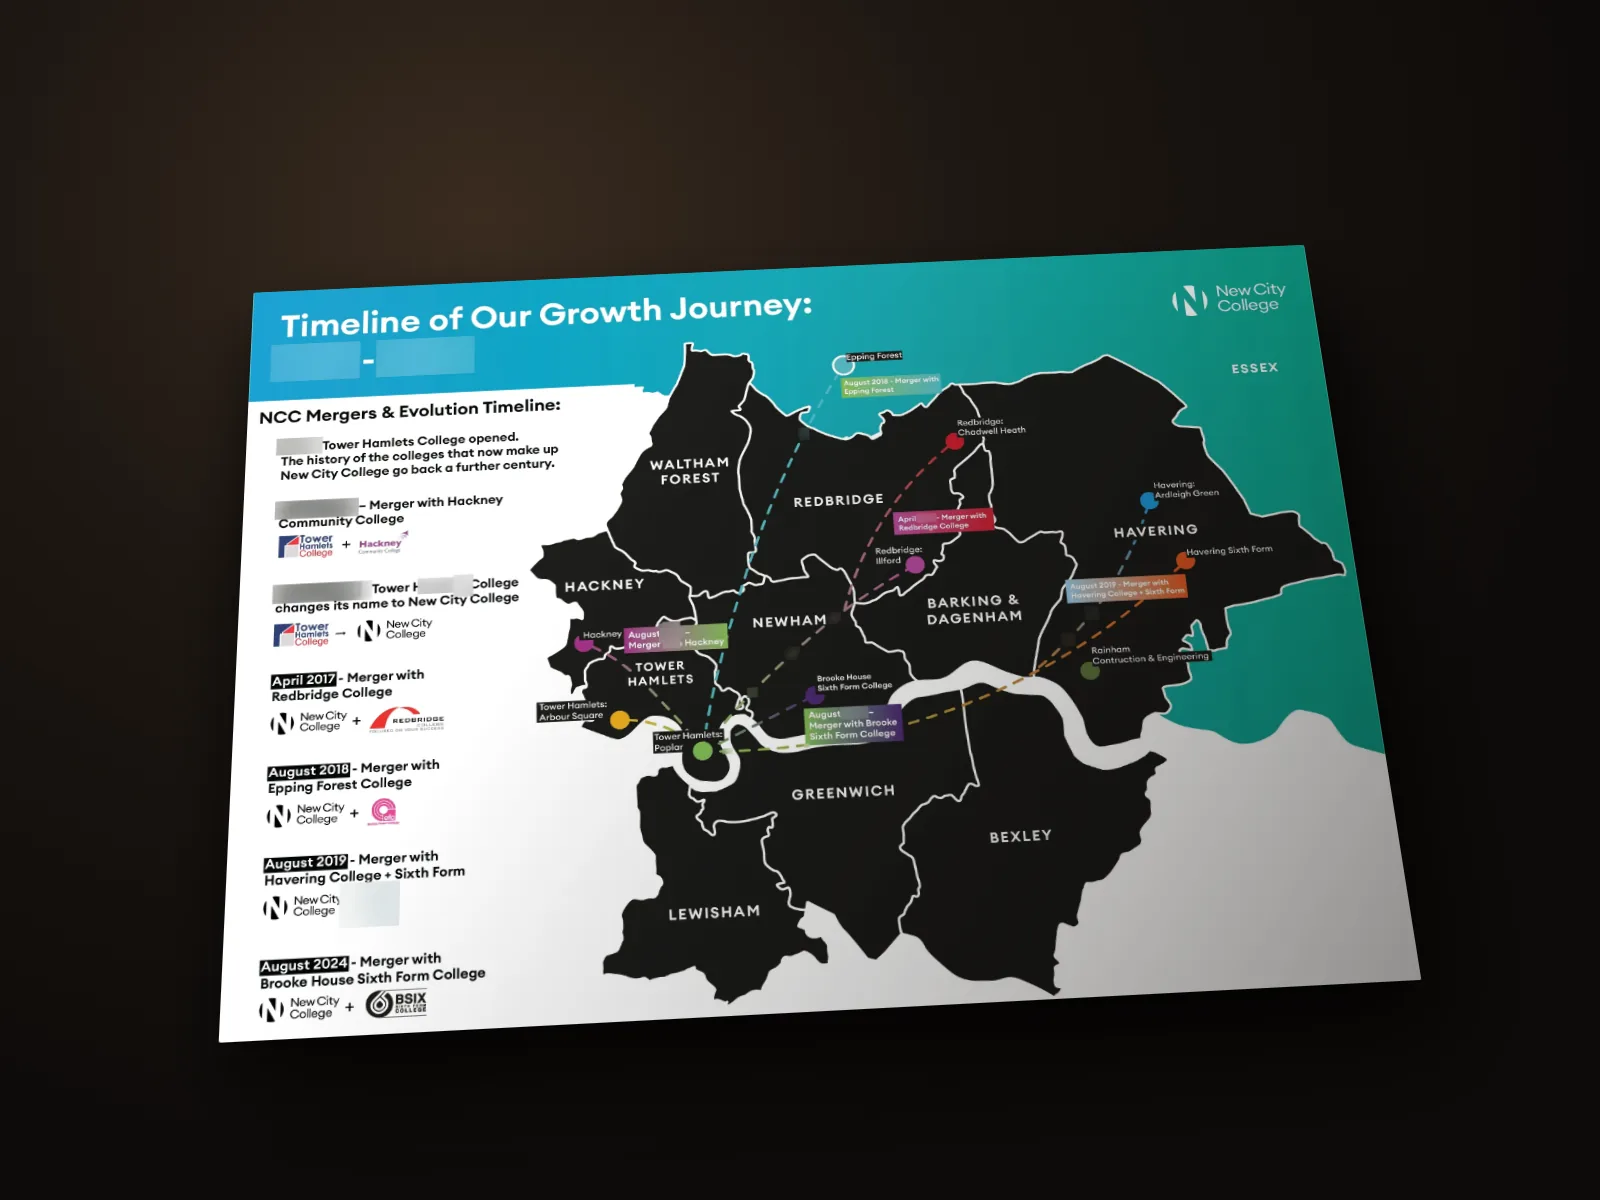
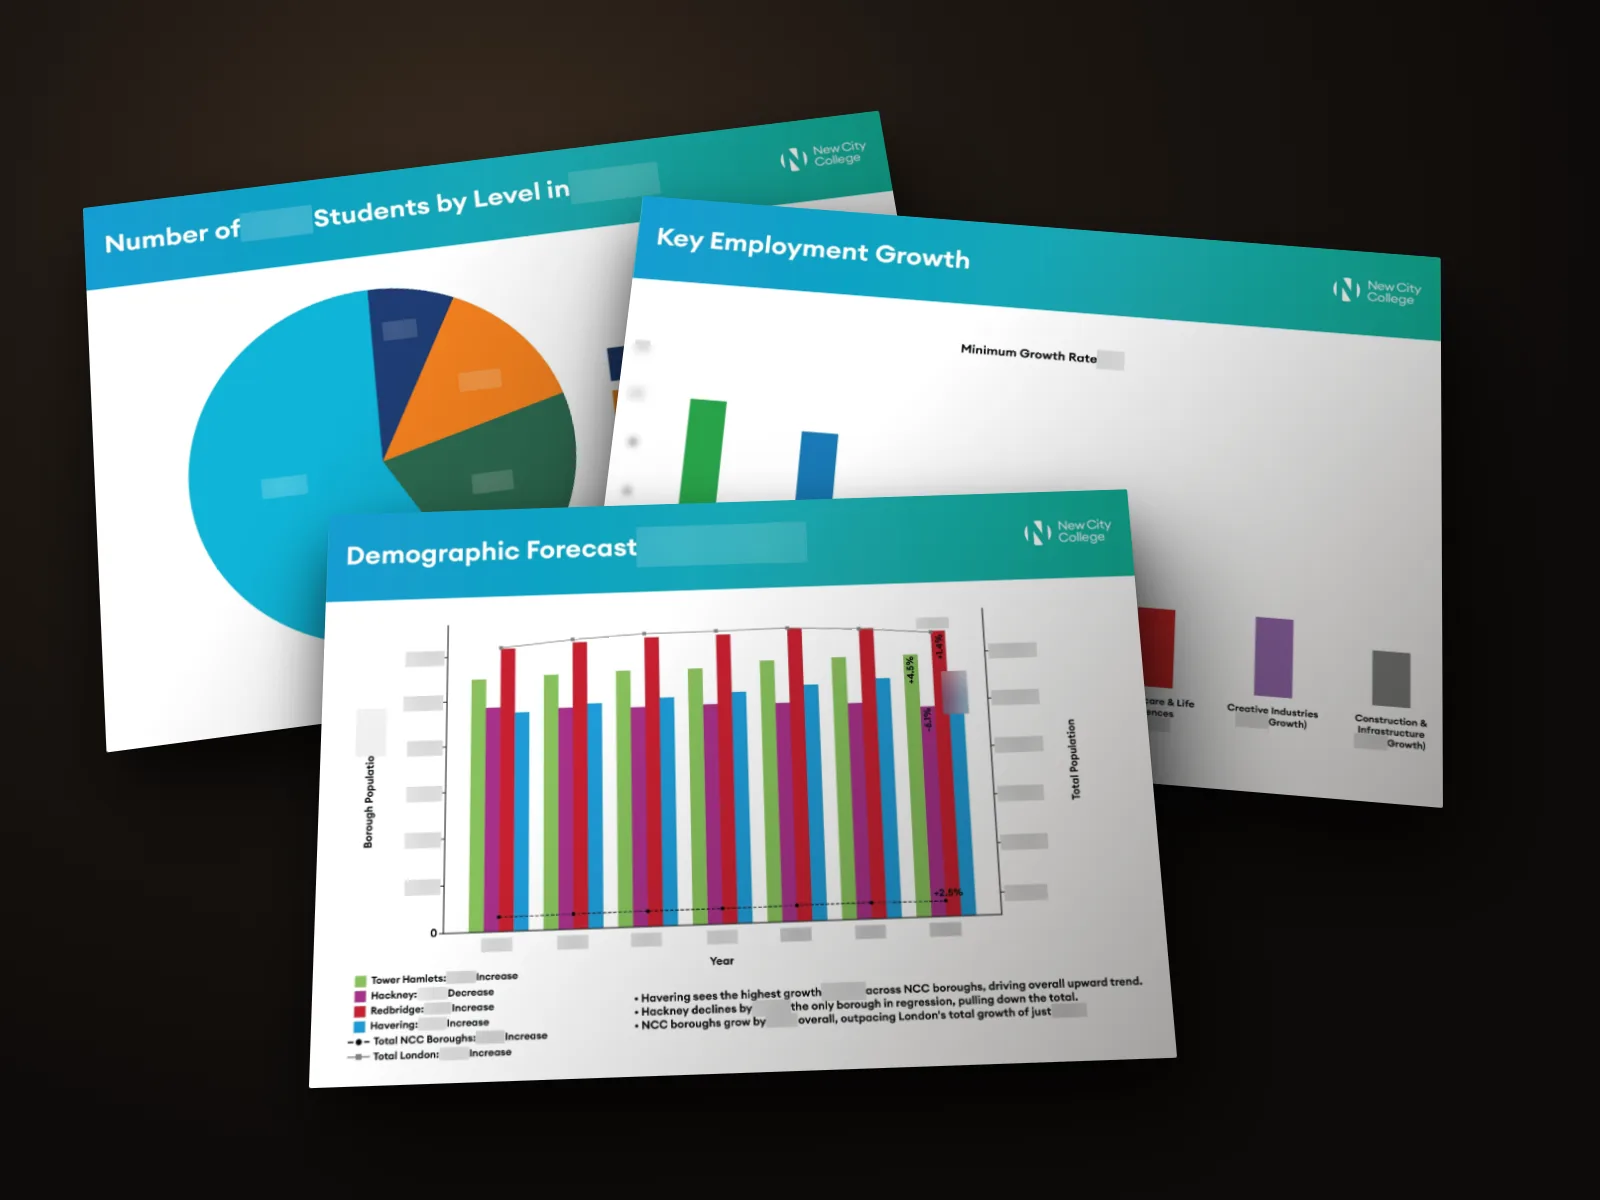
Selected work shows the design work: Pandora still, charts set, no portrait
- Pandora Forever: the street photo is gone; cover and card use a CGI still
  from the video
- KUT Magazine removed (its only image was a portrait)
- Selected work now leads with OSE, CMD, the NCC report, DoubleShot,
  Pandora and the Freeport skills visuals; the map projects stay on /work/
- Strategic Intent card shows its chart set instead of the map

diff --git a/src/scripts/work-filter.ts b/src/scripts/work-filter.ts
@@ -36,7 +36,7 @@ type Cell = [number, number, number, number];
 const BENTO: Record<number, Cell[]> = {
   // Strategic Intent, Oxford, ACL, Fou Answer, NYGG, BSix, Pandora Forever
   7: [[1, 7, 1, 4], [8, 5, 1, 6], [1, 4, 5, 4], [1, 3, 9, 3], [4, 4, 9, 3], [5, 3, 5, 4], [8, 5, 7, 5]],
-  // the archive: KUT, the final major project, then three square renders
+  // the archive: the final major project, then three square renders
   5: [[1, 7, 1, 5], [8, 5, 1, 5], [1, 4, 6, 4], [5, 4, 6, 4], [9, 4, 6, 4]],
   // data and motion: one large, one wide below it, one tall beside both
   3: [[1, 8, 1, 5], [1, 8, 6, 4], [9, 4, 1, 9]],
